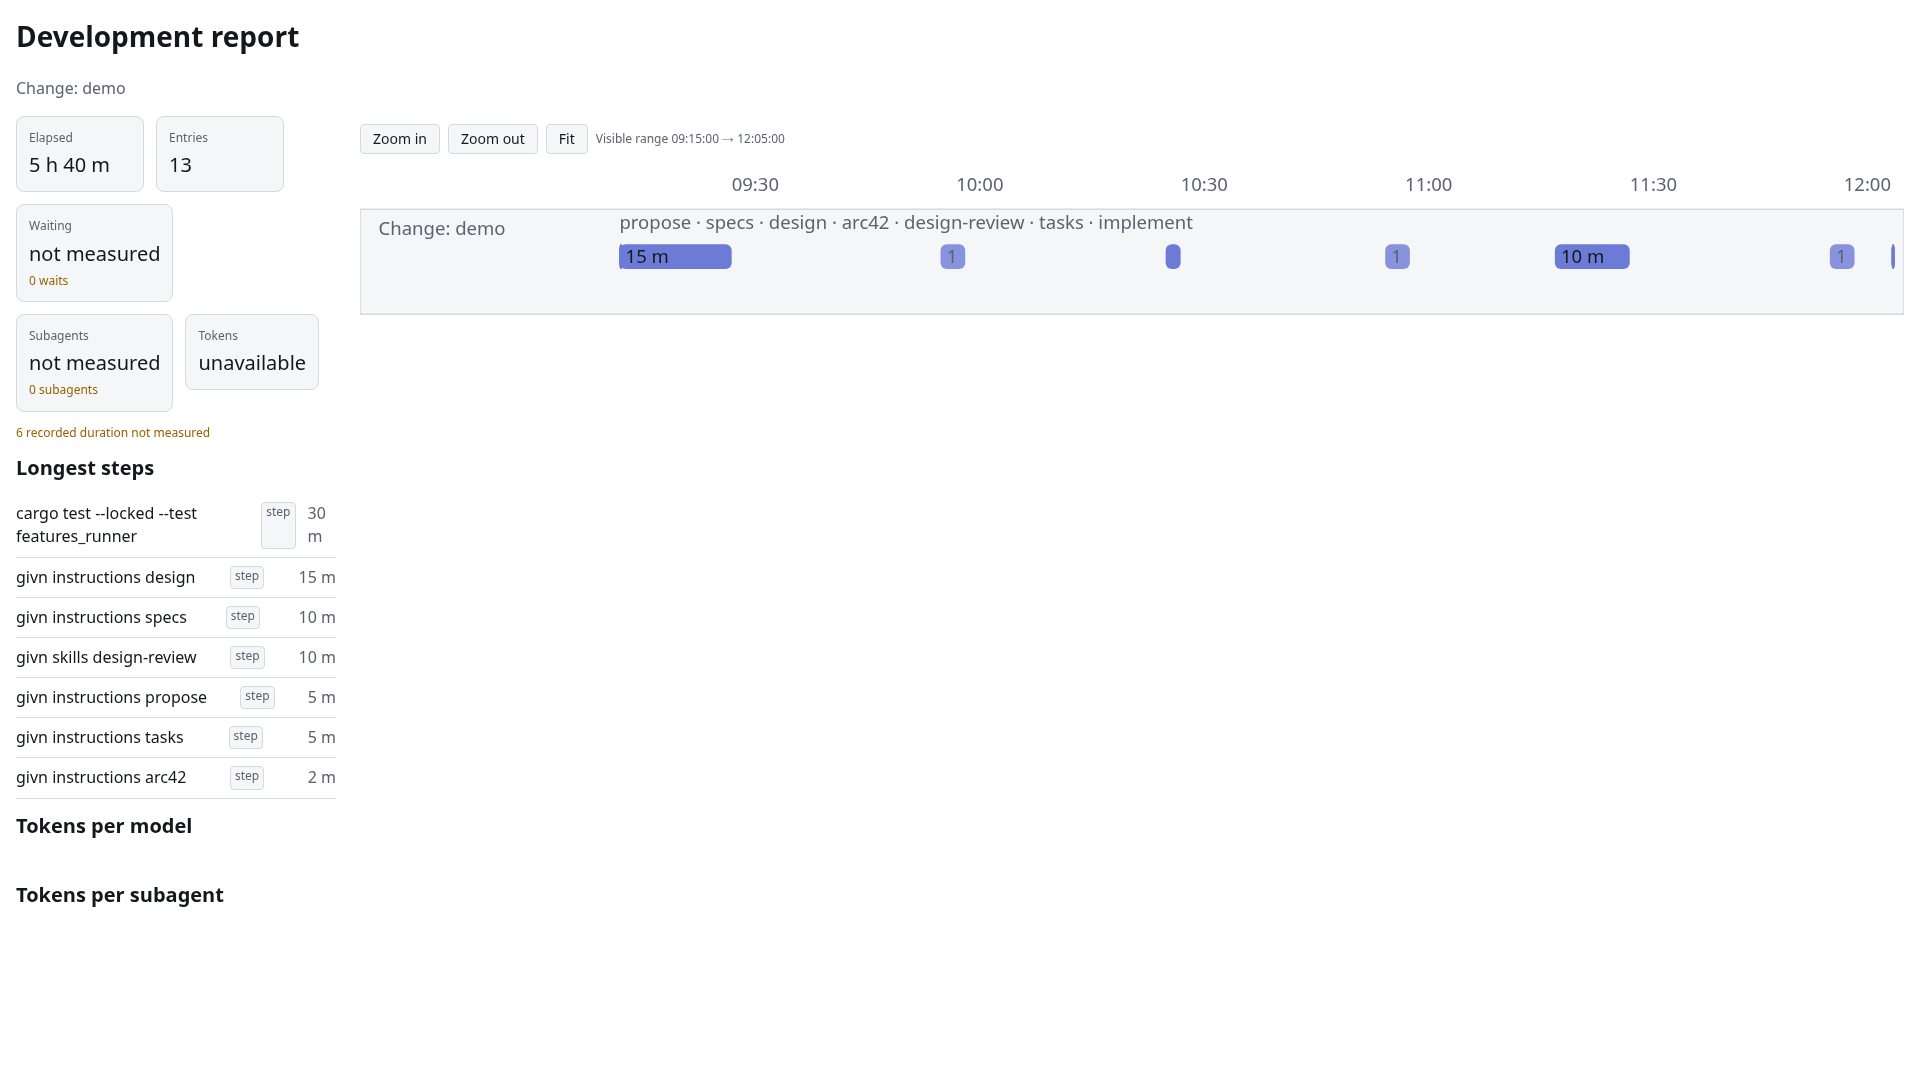
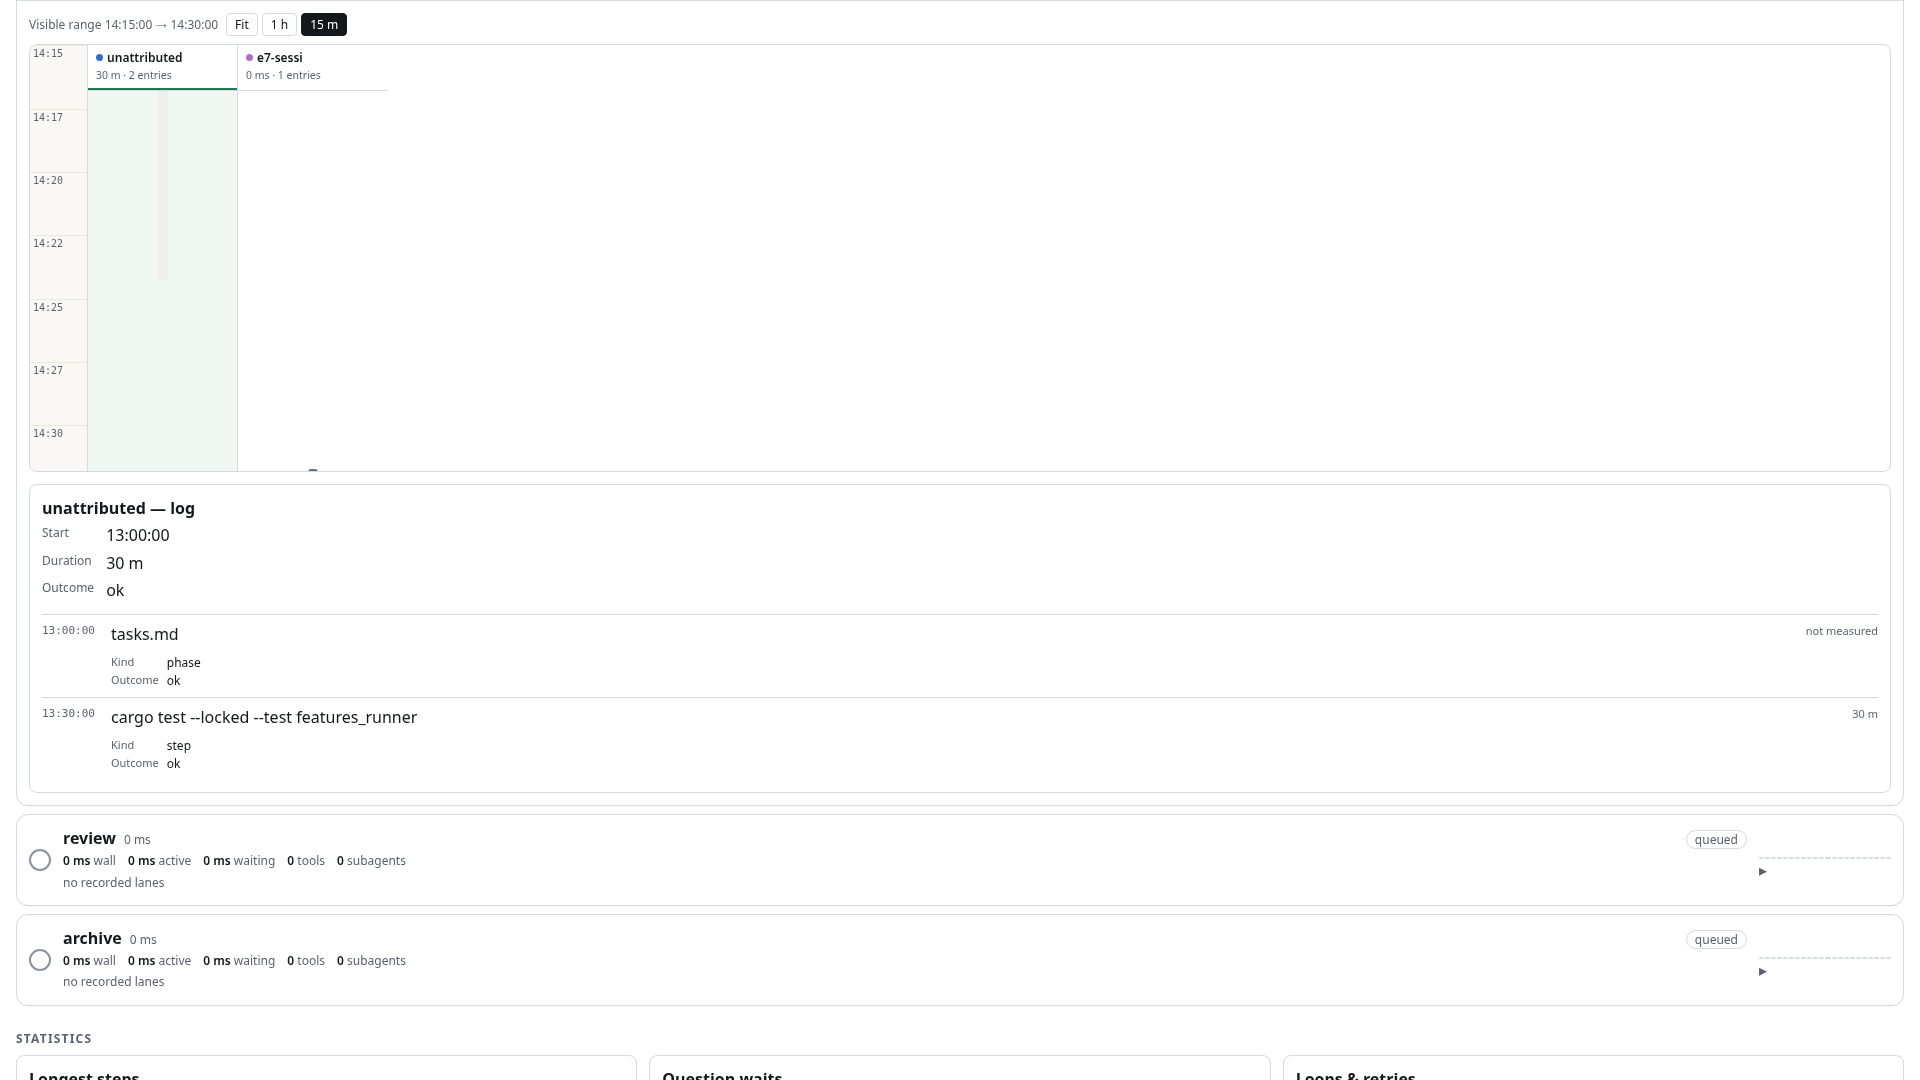
test(e2e): Givn records the development process of every change and ideation — each step it runs, the activity reported by every supported coding-agent harness, question waits, and token usage — and renders it as an interactive timeline report that opens in a browser.
Consumer zooms the timeline to a shorter time range

The per-phase 15 m control narrows the expanded implement phase's rendered
range; the assertion compares the text the page's own script produced before
and after. The reduced-motion preference removes the transition, the one
aggregation threshold bounds each lane at every zoom, and the narrowed range
survives the mobile layout. The evidence pair is refreshed in place.

diff --git a/tests/steps/development_report_e2e_steps.rs b/tests/steps/development_report_e2e_steps.rs
@@ -1075,104 +1075,74 @@ fn time_of_day(at_ms: i64) -> String {
 /// The `@e2e` browser scenario that zooms the timeline.
 const ZOOM_SCENARIO: &str = "Consumer zooms the timeline to a shorter time range";
 
-/// The range the browser rendered: the visible window the page's own script
-/// produced, read from the rendered label and its machine-readable attributes.
-fn rendered_range(driver: &mut BrowserDriver) -> Value {
-    driver.evaluate(
-        r##"(() => {
-  const label = document.getElementById("timeline-range");
+/// The visible range the page's own script rendered for one expanded phase,
+/// read from the rendered label and its machine-readable attributes.
+fn rendered_phase_range(driver: &mut BrowserDriver, phase: &str) -> Value {
+    driver.evaluate(&format!(
+        r##"(() => {{
+  const label = document.getElementById({id});
   if (!label) return null;
-  return {
+  return {{
     text: label.textContent.trim(),
     start: Number(label.dataset.rangeStartMs),
     end: Number(label.dataset.rangeEndMs),
-  };
-})()"##,
-    )
+  }};
+}})()"##,
+        id = json!(format!("phase-range-{phase}"))
+    ))
 }
 
-/// The rendered motion state: the emulated preference and the durations the
-/// browser computed for the timeline's own transition and animation.
+/// The emulated motion preference and the transition the browser computed for
+/// the per-phase zoom control.
 fn rendered_motion(driver: &mut BrowserDriver) -> Value {
     driver.evaluate(
         r##"(() => {
-  const timeline = document.querySelector("svg.timeline");
-  const style = getComputedStyle(timeline);
+  const control = document.querySelector('.phase-card[data-phase="implement"] .zoom-control');
+  const region = document.querySelector('.phase-card[data-phase="implement"] .phase-region');
   return {
     reduce: matchMedia("(prefers-reduced-motion: reduce)").matches,
-    animation: style.animationName + " " + style.animationDuration,
-    transition: style.transitionDuration,
+    controlTransition: control ? getComputedStyle(control).transitionDuration : null,
+    regionAnimation: region ? getComputedStyle(region).animationName : null,
   };
 })()"##,
     )
 }
 
-#[when("the consumer zooms the timeline in")]
-fn consumer_zooms_the_timeline_in(world: &mut GivnWorld) {
-    let before = rendered_range(browser(world));
+#[when("the consumer zooms the expanded phase's timeline in")]
+fn consumer_zooms_the_expanded_phase_timeline_in(world: &mut GivnWorld) {
+    browser(world).click(&phase_expander("implement"));
+    let before = rendered_phase_range(browser(world), "implement");
     assert!(
-        !before.is_null(),
-        "the report renders no visible time range to zoom"
+        before.is_object(),
+        "the expanded phase renders no visible time range to zoom"
     );
     assert!(
         before["start"].as_i64().is_some() && before["end"].as_i64().is_some(),
-        "the rendered range carries no machine-readable window: {before:#}"
+        "the rendered phase range carries no machine-readable window: {before:#}"
     );
-    // The real interaction: a click on the rendered zoom-in control.
-    let control = browser(world).evaluate(
-        r##"(() => {
-  const button = document.getElementById("zoom-in");
-  const out = document.getElementById("zoom-out");
-  return button
-    ? {
-        label: button.textContent.trim(),
-        disabled: button.disabled,
-        outDisabled: out ? out.disabled : null,
-      }
-    : null;
-})()"##,
-    );
-    assert_eq!(
-        control["label"],
-        json!("Zoom in"),
-        "the zoom-in control carries no visible text label: {control:#}"
-    );
-    assert_eq!(
-        control["outDisabled"],
-        json!(true),
-        "the zoom-out control is not disabled while the record's whole range is shown: {control:#}"
-    );
-    browser(world).click("#zoom-in");
-    // The control at the limit reveals itself once the range narrows: zooming
-    // out is reachable again exactly when there is something to zoom out to.
-    let widened = browser(world).evaluate(
-        r##"(() => {
-  const out = document.getElementById("zoom-out");
-  return out ? { disabled: out.disabled } : null;
-})()"##,
-    );
-    assert_eq!(
-        widened["disabled"],
-        json!(false),
-        "the zoom-out control stays disabled after the range narrowed: {widened:#}"
-    );
-    let after = rendered_range(browser(world));
+    // The real interaction: the per-phase `15 m` control, the next narrower
+    // level. The hybrid has no global zoom.
+    let control = ".phase-card[data-phase=\"implement\"] .zoom-control[data-zoom=\"15\"]";
     assert!(
-        !after.is_null(),
-        "the report renders no visible time range after the zoom"
+        browser(world).text(control).contains("15 m"),
+        "the 15 m zoom control carries no visible text label"
     );
-    // The rendered state changed between the two observations: the page's own
-    // script produced a narrower window, and the label it rendered says so.
+    browser(world).click(control);
+    let after = rendered_phase_range(browser(world), "implement");
+    assert!(
+        after.is_object(),
+        "the expanded phase renders no visible time range after the zoom"
+    );
     let width = |range: &Value| {
         range["end"].as_i64().unwrap_or_default() - range["start"].as_i64().unwrap_or_default()
     };
     assert!(
         width(&after) < width(&before),
-        "the zoom did not narrow the rendered time range: before={before:#} after={after:#}"
+        "the zoom did not narrow the rendered phase range: before={before:#} after={after:#}"
     );
     assert_ne!(
         after["text"], before["text"],
-        "the rendered range label did not change between the two observations"
+        "the rendered phase range label did not change between the two observations"
     );
     state(world)
         .zoomed_range
@@ -1180,16 +1150,16 @@ fn consumer_zooms_the_timeline_in(world: &mut GivnWorld) {
 }
 
 #[then("the browser shows a narrower time range than before")]
-fn browser_shows_a_narrower_time_range(world: &mut GivnWorld) {
+fn browser_shows_a_narrower_time_range_than_before(world: &mut GivnWorld) {
     let (before, after) = world
         .development_report_e2e
         .as_ref()
         .and_then(|state| state.zoomed_range.clone())
-        .expect("the timeline has not been zoomed yet");
-    let observed = rendered_range(browser(world));
+        .expect("the expanded phase's timeline has not been zoomed yet");
+    let observed = rendered_phase_range(browser(world), "implement");
     assert_eq!(
         observed, after,
-        "the rendered range the zoom produced is not the range the browser shows now"
+        "the rendered phase range is not the range the zoom produced"
     );
     let width = |range: &Value| {
         range["end"].as_i64().unwrap_or_default() - range["start"].as_i64().unwrap_or_default()
@@ -1198,18 +1168,15 @@ fn browser_shows_a_narrower_time_range(world: &mut GivnWorld) {
         width(&after) < width(&before),
         "the browser shows no narrower range than before the zoom: before={before:#} after={after:#}"
     );
-    // The window's own bounds: the narrowed range stays inside the record's
-    // range, so the axis never leaves the timestamps the report embeds.
     assert!(
         after["start"].as_i64() >= before["start"].as_i64()
             && after["end"].as_i64() <= before["end"].as_i64(),
-        "the zoomed range left the record's own range: before={before:#} after={after:#}"
+        "the zoomed range left the phase's own recorded range: before={before:#} after={after:#}"
     );
 
     // The motion contract: the driver emulates `prefers-reduced-motion: reduce`
     // for the context, so the zoom's transition is removed entirely and the
-    // range above — already the narrowed one — is what the change applied
-    // instantly.
+    // narrowed range above is what the change applied instantly.
     let motion = rendered_motion(browser(world));
     assert_eq!(
         motion["reduce"],
@@ -1217,15 +1184,48 @@ fn browser_shows_a_narrower_time_range(world: &mut GivnWorld) {
         "the browser does not emulate the reduced-motion preference the tier captures with: {motion:#}"
     );
     assert!(
-        motion["animation"]
+        motion["controlTransition"]
             .as_str()
             .unwrap_or_default()
-            .starts_with("none"),
-        "the zoom's animation still runs under the reduced-motion preference: {motion:#}"
+            .split(',')
+            .all(|duration| duration.trim() == "0s"),
+        "the zoom control still transitions under the reduced-motion preference: {motion:#}"
     );
-    // The visual gate's evidence for this scenario: the narrowed range at both
-    // contract viewports, captured after the assertions above.
-    browser(world).capture_evidence(ZOOM_SCENARIO);
+    assert!(
+        motion["regionAnimation"].as_str().unwrap_or_default() == "none",
+        "the zoomed region still animates under the reduced-motion preference: {motion:#}"
+    );
+
+    // Every zoom level re-applies the one aggregation threshold: each lane's
+    // DOM stays bounded instead of drawing one tick per recorded entry.
+    let bounded = browser(world).evaluate(
+        r##"(() => {
+  const lanes = [...document.querySelectorAll('.phase-card[data-phase="implement"] .lane')];
+  return lanes.map((lane) => lane.querySelectorAll(".tick").length);
+})()"##,
+    );
+    for count in bounded
+        .as_array()
+        .unwrap_or_else(|| panic!("the lanes draw no ticks: {bounded:#}"))
+    {
+        assert!(
+            count.as_u64().unwrap_or_default() <= 140,
+            "a lane draws more ticks than the bounded threshold permits: {bounded:#}"
+        );
+    }
+
+    // The zoom state survives the mobile layout change: the narrowed range is
+    // still the rendered range.
+    browser(world).viewport(360, 780);
+    let mobile = rendered_phase_range(browser(world), "implement");
+    assert_eq!(
+        mobile, after,
+        "the zoom state did not survive the mobile layout change"
+    );
+    browser(world).capture_evidence_from(
+        ZOOM_SCENARIO,
+        ".phase-card[data-phase=\"implement\"] .phase-region",
+    );
 }
 
 /// The `@e2e` browser scenario that opens the report of a scope with no
